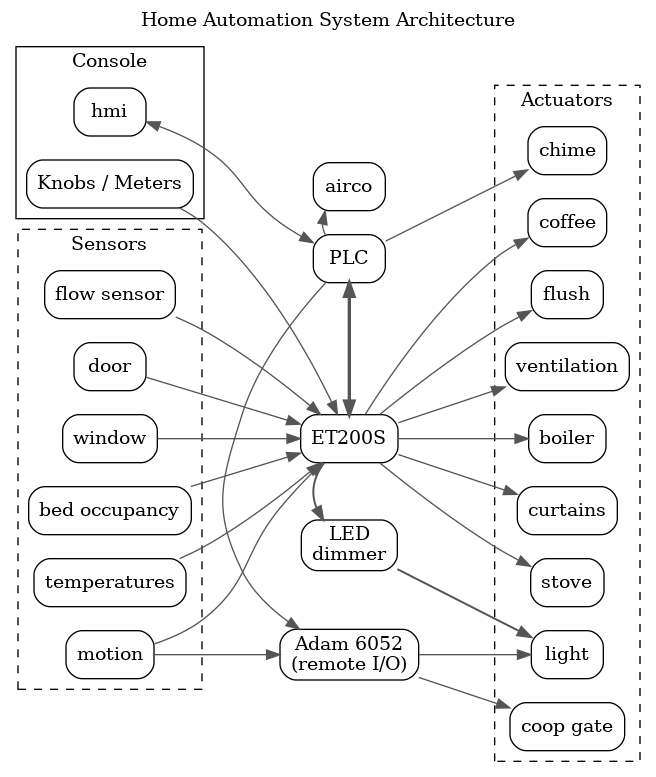
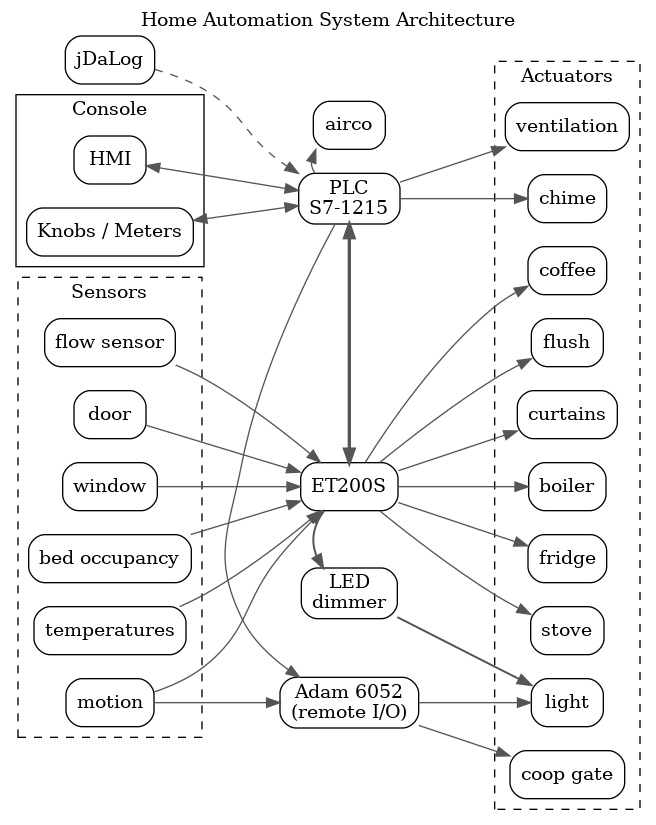
Updated architecture graph

diff --git a/Readme.md b/Readme.md
@@ -76,22 +76,6 @@ The result is a living environment that requires less manual interaction and few
 
 ---
 
-### Stove Optimization
-
-To enable stable low-power operation, the stove was modified with internal ceramic insulation.
-
-Goal:
-
-* maintain a steady low burn rate
-
-Effect:
-
-* improved combustion stability
-* reduced internal heat loss
-* better control at low output levels
-
----
-
 ### Presence & Behavior Automation
 
 * Toilet flushes automatically after leaving
@@ -127,9 +111,9 @@ Triggers:
 
 ## Communication & Integration
 
+* Data logging and visualization via [jDaLog](https://github.com/jce/jDaLog)
 * Proprietary Daikin S21 protocol implemented directly on the PLC
 * Custom-built serial multiplexer for multi-device communication
-* Integration of external systems without reliance on external controllers
 
 ---
 
